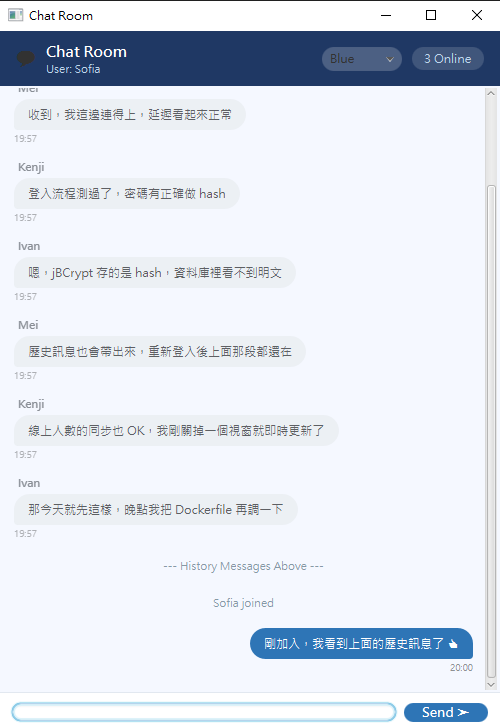
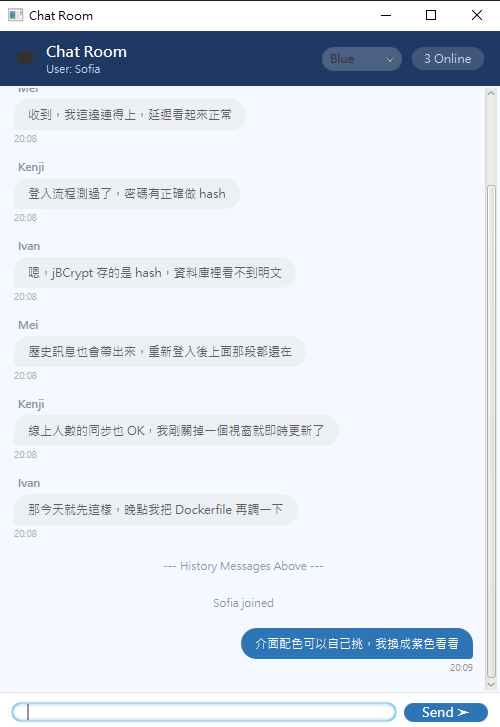
docs: show the theme switcher with a before/after pair
Blue (default) vs Purple on the same conversation: the header, send
button and own-message bubbles all recolour together.

Changed region(s): [[0.48, 0.8473, 0.93, 0.9078]]

diff --git a/README.md b/README.md
@@ -13,6 +13,12 @@
 訊息氣泡依發送者左右分流，標頭顯示目前線上人數與主題配色選單；
 登入後會先載入歷史訊息，並以 `--- History Messages Above ---` 與新訊息分隔。
 
+**主題配色即時切換** —— 同一個畫面切換配色，標頭、送出鈕與自己的訊息氣泡會一併更新：
+
+| Blue（預設） | Purple |
+|---|---|
+| ![藍色主題](docs/screenshots/chat.png) | ![紫色主題](docs/screenshots/chat-theme-purple.png) |
+
 ---
 
 ## 架構
@@ -37,7 +43,7 @@ JavaFX Client  ──TCP Socket (JSON)──>  ChatServer  ──JDBC──>  Po
 - **即時群聊**：訊息廣播給所有線上使用者，自己與他人的訊息以不同氣泡樣式呈現
 - **歷史訊息**：登入後自動載入先前的對話紀錄
 - **線上人數**：連線／離線即時同步顯示
-- **介面主題**：可即時切換聊天室配色
+- **介面主題**：五種配色（Blue／Green／Red／Black／Purple）即時切換，已顯示的訊息氣泡也會一起重新上色
 - **音效回饋**：傳送、接收、加入、離開、錯誤各有提示音
 
 ## 技術棧
